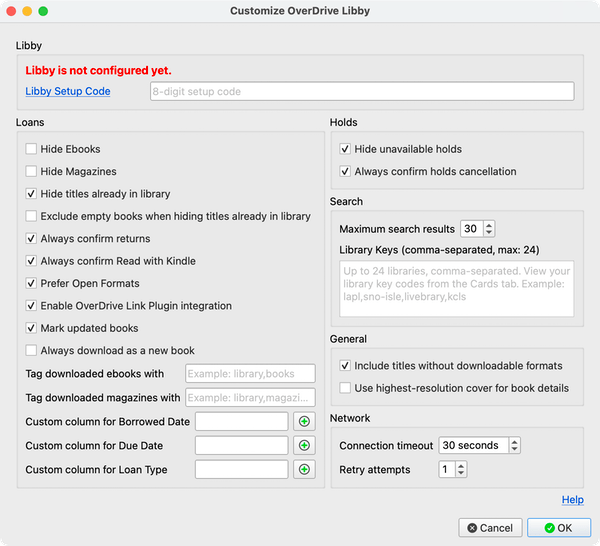
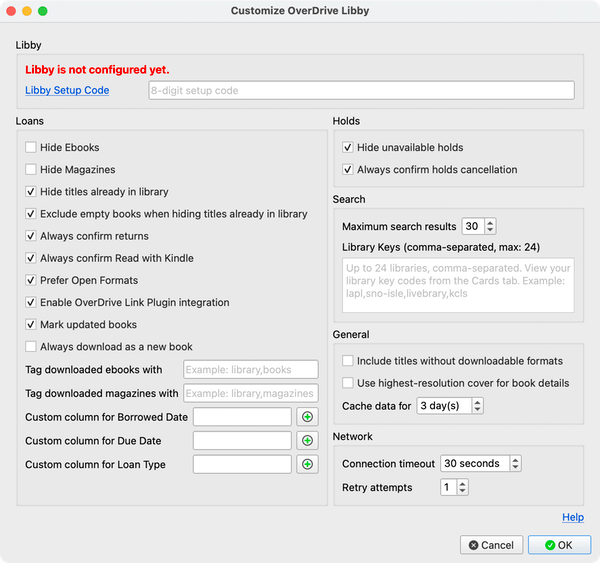
Bump version to 0.1.8

diff --git a/calibre-plugin/__init__.py b/calibre-plugin/__init__.py
@@ -21,7 +21,7 @@ if False:
 
 load_translations()
 
-__version__ = (0, 1, 7)
+__version__ = (0, 1, 8)
 PLUGIN_NAME = "overdrive_libby"
 PLUGIN_ICON = "images/plugin.svg"
 PLUGINS_FOLDER_NAME = "plugins"

diff --git a/README.md b/README.md
@@ -97,6 +97,8 @@ You should only need to do this setup once. Then add the plugin to the toolbar/m
   - When such titles are chosen for download, an empty book will be created in the calibre library
 - Use highest-resolution cover for book details
   - Display best-quality cover when viewing book details. May be slower.
+- Cache data for
+  - Infrequently changed data like libraries information are cached by the plugin. Use this to change how long cached data is used.
 
 #### Network
 
@@ -122,6 +124,7 @@ Select a row, right-click and select the appropriate action to:
 - View the title on the Libby/OverDrive site
 - Read with Kindle (if available)
 - View book details (also accesible by double-clicking on the row)
+- Copy the Libby share link
 - Search for selected book in your calibre library
 - Search with the selected book title and author
 - Renew/place a hold for an expiring loan
